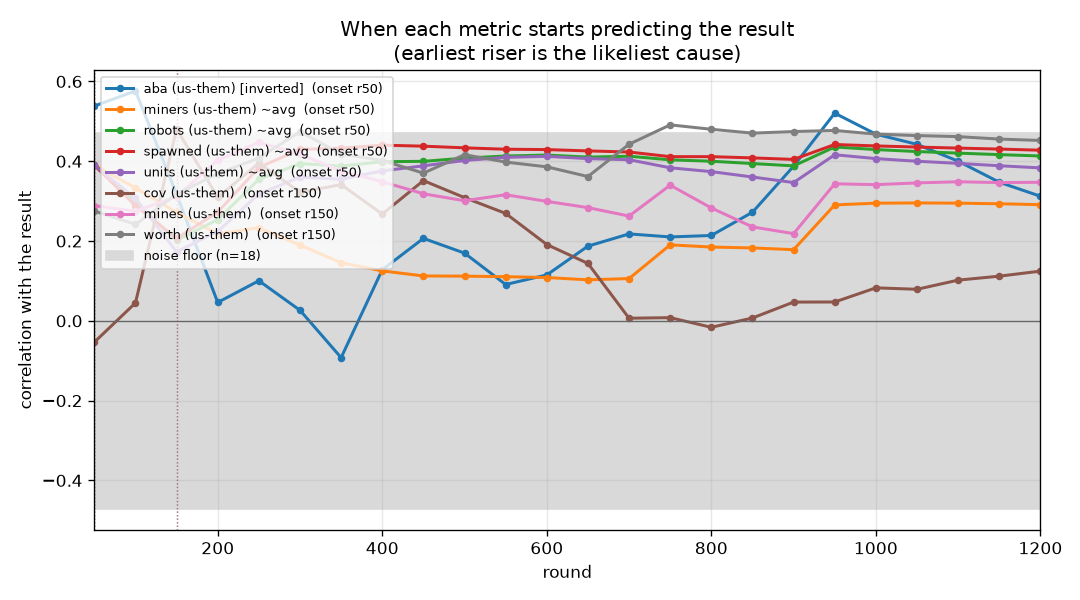
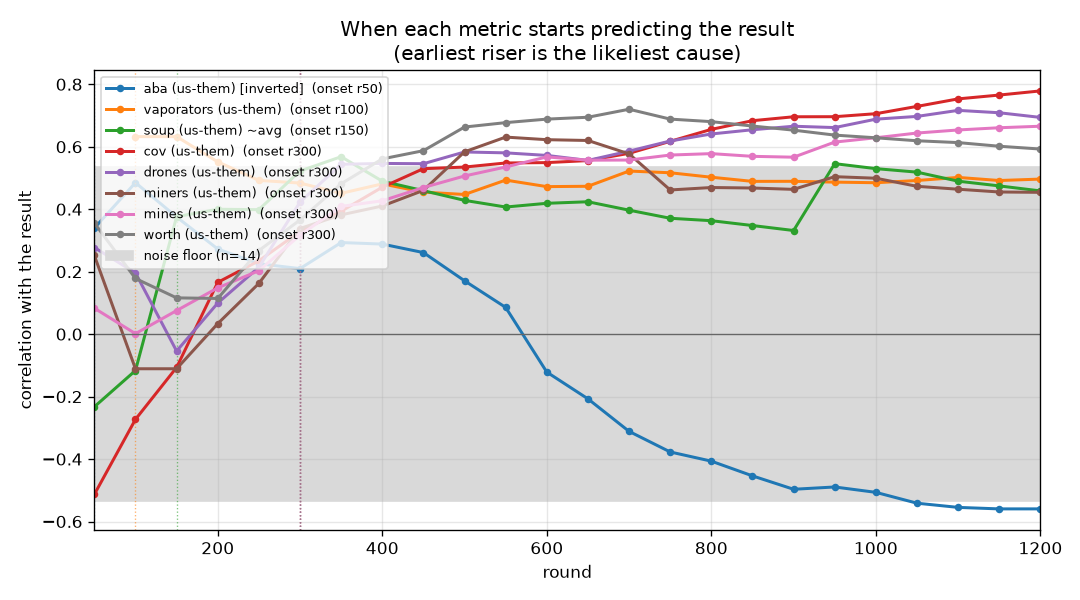
Block 17: g_iter3 11/48
Claude-Session: https://claude.ai/code/session_01CTUHPRaZ9DbYUkpWKYf2Y2

diff --git a/progress/ONSET.md b/progress/ONSET.md
@@ -1,6 +1,6 @@
 # Which metric starts predicting the result first
 
-18 games, 5 wins. Noise floor about 0.47; a correlation inside that band is not evidence.
+14 games, 7 wins. Noise floor about 0.53; a correlation inside that band is not evidence.
 
 Every metric is oriented so **higher is better for us**, so a positive correlation always means
 "this being better goes with winning". `~avg` is the running mean over all rounds so far rather than
@@ -12,46 +12,46 @@ See `progress/METRICS.md` for how each quantity is computed.
 
 | onset | anti | metric | peak corr | r100 | r200 | r300 | r400 | r600 | r900 |
 |---|---|---|---|---|---|---|---|---|---|
-| r50 | - | aba (us-them) [inverted] | +0.58 | +0.58 | +0.05 | +0.03 | +0.13 | +0.12 | +0.39 |
-| r50 | - | aba (us-them) [inverted] ~avg | +0.56 | +0.56 | +0.35 | +0.23 | +0.11 | +0.14 | +0.23 |
-| r50 | - | miners (us-them) ~avg | +0.39 | +0.33 | +0.22 | +0.19 | +0.13 | +0.11 | +0.18 |
-| r50 | - | robots (us-them) ~avg | +0.44 | +0.30 | +0.25 | +0.39 | +0.40 | +0.42 | +0.39 |
-| r50 | - | spawned (us-them) ~avg | +0.44 | +0.29 | +0.27 | +0.43 | +0.44 | +0.43 | +0.40 |
-| r50 | - | units (us-them) ~avg | +0.42 | +0.31 | +0.22 | +0.36 | +0.38 | +0.41 | +0.35 |
-| r150 | - | cov (us-them) | +0.48 | +0.04 | +0.31 | +0.32 | +0.27 | +0.19 | +0.05 |
-| r150 | - | cov (us-them) ~avg | +0.51 | +0.01 | +0.42 | +0.42 | +0.38 | +0.34 | +0.21 |
-| r150 | - | mines (us-them) | +0.45 | +0.27 | +0.40 | +0.42 | +0.35 | +0.30 | +0.22 |
-| r150 | - | worth (us-them) | +0.49 | +0.24 | +0.37 | +0.47 | +0.40 | +0.39 | +0.47 |
-| r200 | - | landscapers (us-them) | +0.56 | +0.10 | +0.40 | +0.56 | +0.48 | +0.45 | +0.16 |
-| r200 | - | mines (us-them) ~avg | +0.50 | +0.29 | +0.35 | +0.42 | +0.39 | +0.36 | +0.37 |
-| r200 | - | robots (us-them) | +0.46 | +0.22 | +0.31 | +0.45 | +0.42 | +0.39 | +0.33 |
-| r200 | - | spawned (us-them) | +0.51 | +0.21 | +0.35 | +0.50 | +0.44 | +0.39 | +0.36 |
-| r200 | - | worth (us-them) ~avg | +0.51 | +0.26 | +0.35 | +0.43 | +0.42 | +0.41 | +0.47 |
-| r250 | - | landscapers (us-them) ~avg | +0.51 | +0.10 | +0.24 | +0.44 | +0.48 | +0.50 | +0.42 |
-| r250 | - | units (us-them) | +0.44 | +0.20 | +0.28 | +0.43 | +0.43 | +0.37 | +0.21 |
-| r300 | - | digs (us-them) | +0.45 | +0.24 | +0.17 | +0.32 | +0.32 | +0.37 | +0.40 |
-| r300 | - | dirtDeps (us-them) | +0.50 | +0.18 | +0.17 | +0.30 | +0.29 | +0.38 | +0.44 |
-| r400 | - | pickups (us-them) | +0.33 | +0.15 | +0.14 | +0.23 | +0.30 | +0.33 | +0.19 |
-| r500 | - | digs (us-them) ~avg | +0.45 | +0.24 | +0.15 | +0.27 | +0.28 | +0.33 | +0.35 |
-| r500 | - | pickups (us-them) ~avg | +0.33 | +0.15 | +0.15 | +0.19 | +0.27 | +0.33 | +0.26 |
-| r550 | - | dirtDeps (us-them) ~avg | +0.49 | +0.18 | +0.16 | +0.24 | +0.25 | +0.33 | +0.37 |
-| r550 | - | vaporators (us-them) | +0.51 | +0.22 | +0.12 | +0.18 | +0.19 | +0.36 | +0.48 |
-| r650 | - | vaporators (us-them) ~avg | +0.48 | +0.22 | +0.14 | +0.13 | +0.17 | +0.26 | +0.46 |
-| r750 | - | soup (us-them) ~avg | +0.50 | -0.23 | +0.10 | -0.01 | -0.01 | -0.05 | +0.28 |
-| r1000 | - | drones (us-them) | +0.36 | -0.07 | -0.09 | +0.07 | +0.21 | -0.03 | +0.21 |
-| r1000 | - | miners (us-them) | +0.39 | +0.21 | +0.08 | +0.05 | +0.04 | +0.09 | +0.13 |
-| r1000 | - | soup (us-them) | +0.62 | -0.13 | -0.03 | -0.07 | -0.07 | -0.14 | +0.21 |
-| - | - | died (us-them) [inverted] | +0.26 | +0.15 | -0.19 | +0.04 | +0.10 | +0.09 | +0.01 |
-| - | - | died (us-them) [inverted] ~avg | +0.15 | +0.15 | -0.12 | -0.02 | -0.01 | +0.10 | +0.06 |
-| - | - | drones (us-them) ~avg | +0.28 | -0.07 | -0.12 | -0.01 | +0.10 | +0.07 | +0.11 |
+| r50 | r700 | aba (us-them) [inverted] | -0.56 | +0.49 | +0.27 | +0.21 | +0.29 | -0.12 | -0.50 |
+| r50 | r950 | aba (us-them) [inverted] ~avg | -0.49 | +0.46 | +0.35 | +0.27 | +0.29 | +0.17 | -0.23 |
+| r100 | - | vaporators (us-them) | +0.63 | +0.63 | +0.55 | +0.48 | +0.48 | +0.47 | +0.49 |
+| r100 | - | vaporators (us-them) ~avg | +0.63 | +0.63 | +0.61 | +0.55 | +0.51 | +0.49 | +0.50 |
+| r150 | - | soup (us-them) ~avg | +0.57 | -0.12 | +0.40 | +0.52 | +0.49 | +0.42 | +0.33 |
+| r300 | r50 | cov (us-them) | +0.78 | -0.27 | +0.17 | +0.33 | +0.47 | +0.55 | +0.70 |
+| r300 | - | drones (us-them) | +0.72 | +0.20 | +0.10 | +0.42 | +0.55 | +0.57 | +0.67 |
+| r300 | - | miners (us-them) | +0.63 | -0.11 | +0.03 | +0.34 | +0.41 | +0.62 | +0.46 |
+| r300 | - | mines (us-them) | +0.67 | +0.00 | +0.15 | +0.32 | +0.43 | +0.57 | +0.57 |
+| r300 | - | soup (us-them) | +0.63 | +0.08 | +0.10 | +0.63 | +0.17 | +0.34 | +0.08 |
+| r300 | - | worth (us-them) | +0.72 | +0.18 | +0.11 | +0.37 | +0.56 | +0.69 | +0.65 |
+| r350 | - | died (us-them) [inverted] | +0.62 | . | -0.18 | +0.23 | +0.43 | +0.58 | +0.26 |
+| r350 | - | drones (us-them) ~avg | +0.67 | +0.24 | +0.09 | +0.22 | +0.41 | +0.56 | +0.61 |
+| r350 | - | robots (us-them) | +0.75 | -0.29 | -0.16 | +0.25 | +0.52 | +0.67 | +0.70 |
+| r350 | - | spawned (us-them) | +0.68 | -0.29 | -0.15 | +0.23 | +0.46 | +0.59 | +0.67 |
+| r350 | r100 | units (us-them) | +0.76 | -0.43 | -0.37 | +0.09 | +0.41 | +0.57 | +0.75 |
+| r350 | - | worth (us-them) ~avg | +0.66 | +0.24 | +0.15 | +0.26 | +0.41 | +0.59 | +0.65 |
+| r400 | r50 | cov (us-them) ~avg | +0.66 | -0.38 | -0.04 | +0.18 | +0.32 | +0.47 | +0.59 |
+| r400 | - | mines (us-them) ~avg | +0.61 | +0.03 | +0.10 | +0.20 | +0.32 | +0.46 | +0.54 |
+| r400 | - | pickups (us-them) | +0.65 | . | -0.32 | +0.16 | +0.35 | +0.58 | +0.46 |
+| r450 | - | died (us-them) [inverted] ~avg | +0.59 | . | -0.22 | +0.03 | +0.28 | +0.55 | +0.47 |
+| r450 | - | miners (us-them) ~avg | +0.59 | +0.03 | -0.01 | +0.18 | +0.30 | +0.47 | +0.56 |
+| r450 | - | robots (us-them) ~avg | +0.69 | +0.00 | -0.18 | +0.05 | +0.28 | +0.54 | +0.67 |
+| r450 | - | spawned (us-them) ~avg | +0.63 | +0.00 | -0.16 | +0.04 | +0.24 | +0.46 | +0.61 |
+| r500 | - | pickups (us-them) ~avg | +0.63 | . | -0.34 | -0.05 | +0.19 | +0.47 | +0.58 |
+| r500 | r150 | units (us-them) ~avg | +0.70 | -0.16 | -0.37 | -0.17 | +0.10 | +0.43 | +0.64 |
+| r600 | r100 | landscapers (us-them) | +0.66 | -0.42 | -0.59 | -0.38 | -0.04 | +0.33 | +0.66 |
+| r700 | r100 | moves (us-them) | +0.47 | -0.40 | -0.25 | -0.15 | -0.02 | +0.25 | +0.41 |
+| r750 | r150 | digs (us-them) | +0.73 | -0.04 | -0.45 | -0.35 | -0.19 | +0.04 | +0.49 |
+| r850 | r150 | dirtDeps (us-them) | +0.67 | +0.03 | -0.49 | -0.40 | -0.28 | -0.03 | +0.39 |
+| r850 | r100 | landscapers (us-them) ~avg | +0.56 | -0.42 | -0.49 | -0.46 | -0.36 | -0.08 | +0.41 |
+| r900 | r100 | moves (us-them) ~avg | -0.43 | -0.43 | -0.32 | -0.24 | -0.14 | +0.09 | +0.30 |
+| r950 | r150 | digs (us-them) ~avg | +0.56 | -0.04 | -0.46 | -0.41 | -0.30 | -0.14 | +0.19 |
+| r1000 | r150 | dirtDeps (us-them) ~avg | +0.48 | +0.03 | -0.47 | -0.45 | -0.37 | -0.21 | +0.08 |
 | - | - | drowned (us-them) [inverted] | . | . | . | . | . | . | . |
 | - | - | drowned (us-them) [inverted] ~avg | . | . | . | . | . | . | . |
-| - | - | hqBuried (us-them) [inverted] | +0.23 | +0.23 | +0.17 | +0.17 | . | . | . |
-| - | - | hqBuried (us-them) [inverted] ~avg | +0.23 | +0.23 | +0.17 | +0.17 | . | . | . |
-| - | - | moves (us-them) | +0.25 | +0.03 | -0.09 | +0.01 | +0.07 | +0.16 | +0.12 |
-| - | - | moves (us-them) ~avg | +0.27 | -0.01 | -0.06 | +0.01 | +0.05 | +0.12 | +0.14 |
-| - | - | netguns (us-them) | +0.29 | . | . | . | +0.28 | +0.28 | +0.29 |
-| - | - | netguns (us-them) ~avg | +0.30 | . | . | . | +0.26 | +0.27 | +0.29 |
+| - | - | hqBuried (us-them) [inverted] | . | . | . | . | . | . | . |
+| - | - | hqBuried (us-them) [inverted] ~avg | . | . | . | . | . | . | . |
+| - | r950 | netguns (us-them) | -0.36 | . | . | . | -0.28 | -0.28 | -0.28 |
+| - | r950 | netguns (us-them) ~avg | -0.36 | . | . | . | -0.28 | -0.28 | -0.28 |
 
 **Reading it.** Earliest onset is the first place to look: temporal precedence is the one causal hint a
 correlation can honestly give. Late-onset metrics are usually the scoreboard rather than the cause -- by then

diff --git a/TRAINING_LOG.md b/TRAINING_LOG.md
@@ -766,6 +766,10 @@ plateau; the roles need a rewrite around tiles a landscaper can hold: pick the n
 can reach and keep dry, at distance 2 or 3, and feed inward. That rewrite is the plateau's stage 2
 and the first job of the next session. `src/bot` back to g_iter3.
 
+## Block 17 -- g_iter3 against the challenge pool (run block17, 2026-09-24)
+
+48 games: **11/48 (23%)**; cumulative for g_iter3 55/252 (21.8%).
+
 ## Ledger (closed directions)
 
 - **The economy regime (Iteration 17, 2026-09-24)** -- 8-24 miners, early vaporators, 20 drones on
